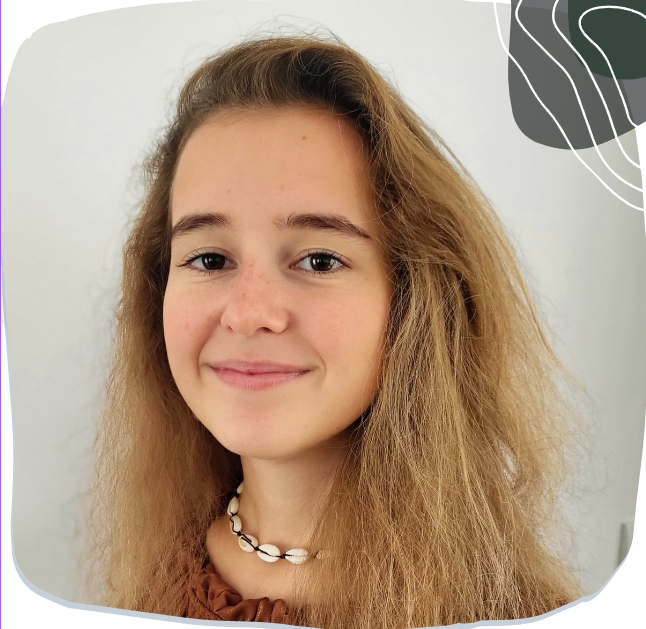
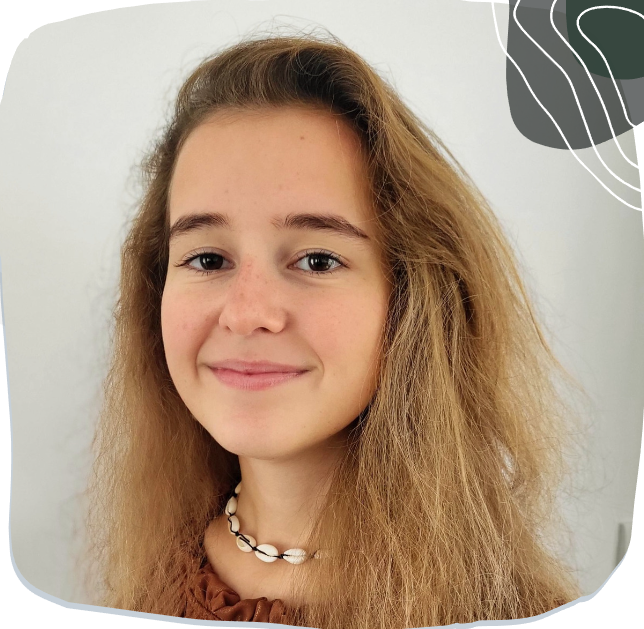
CV FR réalisé

diff --git a/FR_VERS/APropos/CV/CV.css b/FR_VERS/APropos/CV/CV.css
@@ -1,18 +1,29 @@
 @import url('https://fonts.googleapis.com/css2?family=Oleo+Script:wght@700&display=swap');
+@import url('https://fonts.googleapis.com/css2?family=Noto+Sans:wght@300;400&display=swap');
 
 
-
+html{
+    width: 1415px;
+    height: 2000px;
+}
 
 body {
     margin:0;
     padding:0;
     background: url(arriere_plan.png) no-repeat; 
+    width: 1415px;
+    height: 2000px;
+
 }
 
 .bandeau {
     width: 1415px;
     height: 150px;
 }
+
+/*=================================================================
+  Nom section
+==================================================================*/
 
 .Nom {
     width: 1415px;
@@ -22,15 +33,237 @@ body {
 
 p.center_nom {
     top : 100px;
-    left: 130px;
+    left: 100px;
     margin: 20px 50px 10px;
     position: relative;
-    font-size: 100px;
+    font-size: 120px;
 }
 
-.Photo {
-    width: 415px;
-    height: 950px;
-    float: center;
+img {
+    width: 620px;
+    height: 620px;
+    top : 165px;
+    left: 732px;
+    position: absolute;
 }
+
+/*=================================================================
+  Scolarite section
+==================================================================*/
+
+.Scolarite {
+    top: 700px;
+    width: 700px;
+    height: 500px;
+    position: absolute;
+}
+
+#Scolarite_Titre {
+    left: 32px;
+    font-family: 'Oleo Script', cursive;
+    font-size: 50px;
+    position: relative;
+}
+
+.Scolarite_Nom {
+    font-family: 'Noto Sans', sans-serif;
+    left: 32px;
+    position: relative;
+}
+
+.Scolarite_Texte {
+    font-family: 'Noto Sans', sans-serif;
+    font-size: 20px;
+    left: 50px;
+    position: relative;
+}
+
+/*=================================================================
+  Experience section
+==================================================================*/
+
+.Experience {
+    top: 1300px;
+    width: 700px;
+    height: 500px;
+    position: absolute;
+}
+
+#Experience_Titre {
+    left: 32px;
+    font-family: 'Oleo Script', cursive;
+    font-size: 50px;
+    position: relative;
+}
+
+.Experience_Nom {
+    font-family: 'Noto Sans', sans-serif;
+    left: 32px;
+    position: relative;
+}
+
+#Experience_Lieu {
+    font-family: 'Noto Sans', sans-serif;
+    left: 40px;
+    position: relative;
+}
+
+.Experience_Texte {
+    font-family: 'Noto Sans', sans-serif;
+    font-size: 20px;
+    left: 50px;
+    position: relative;
+}
+
+/*=================================================================
+  Interets section
+==================================================================*/
+
+.Interets {
+    top: 830px;
+    width: 700px;
+    height: 280px;
+    left: 750px;
+    position: absolute;
+}
+
+#Interets_Titre {
+    left: 32px;
+    font-family: 'Oleo Script', cursive;
+    font-size: 50px;
+    position: relative;
+}
+
+#Interets_Texte {
+    font-family: 'Noto Sans', sans-serif;
+    font-size: 20px;
+    left: 50px;
+    position: relative;
+}
+
+/*=================================================================
+  Competences section
+==================================================================*/
+
+.Competences {
+    top: 1080px;
+    width: 700px;
+    height: 300px;
+    left: 750px;
+    position: absolute;
+}
+
+#Competences_Titre {
+    left: 32px;
+    font-family: 'Oleo Script', cursive;
+    font-size: 50px;
+    position: relative;
+}
+
+#Competences_Texte {
+    font-family: 'Noto Sans', sans-serif;
+    font-size: 20px;
+    left: 50px;
+    position: relative;
+}
+
+/*=================================================================
+  Langues section
+==================================================================*/
+
+.Langues {
+    top: 1355px;
+    width: 700px;
+    height: 300px;
+    left: 750px;
+    position: absolute;
+}
+
+#Langues_Titre {
+    left: 32px;
+    font-family: 'Oleo Script', cursive;
+    font-size: 50px;
+    position: relative;
+}
+
+#Langues_Texte {
+    font-family: 'Noto Sans', sans-serif;
+    font-size: 20px;
+    left: 50px;
+    position: relative;
+}
+
+/*=================================================================
+  Contact section
+==================================================================*/
+
+.Contact {
+    top: 1700px;
+    left: 80px;
+    width: 1000px;
+    height: 300px;
+    position: absolute;
+}
+
+#Contact_Titre {
+    top: 20px;
+    left: 35px;
+    font-family: 'Oleo Script', cursive;
+    font-size: 50px;
+    position: relative;
+}
+
+#Contact_Mail {
+    font-family: 'Noto Sans', sans-serif;
+    font-size: 20px;
+    top: 100px;
+    left: 400px;
+    position: absolute;
+}
+
+#mail {
+    height: 50px;
+    width: 55px;
+    top: 105px;
+    left: 330px;
+    position: absolute;
+}
+
+#Contact_Tel {
+    font-family: 'Noto Sans', sans-serif;
+    font-size: 20px;
+    top: 200px;
+    left: 280px;
+    position: absolute;
+}
+
+#tel {
+    height: 50px;
+    width: 55px;
+    top: 205px;
+    left: 210px;
+    position: absolute;
+}
+
+#Contact_Localisation {
+    font-family: 'Noto Sans', sans-serif;
+    font-size: 20px;
+    top: 195px;
+    left: 730px;
+    position: absolute;
+}
+
+#localisation {
+    height: 45px;
+    width: 40px;
+    top: 200px;
+    left: 675px;
+    position: absolute;
+}
+
+
+
+
+
+
 

diff --git a/FR_VERS/APropos/CV/CV_FR.html b/FR_VERS/APropos/CV/CV_FR.html
@@ -8,9 +8,95 @@
     <link rel='stylesheet' type='text/css' media='screen' href='CV.css'>
 </head>
 <body>
+
     <div class="bandeau"> </div>
+
+    
+    <!-- Nom Section --> 
+
     <div class="Nom"><p class="center_nom">Éloïse</p><p class="center_nom">Lecronier</p></div>
-    <div class="Photo"><img src = "photo_cv.png"></div>
+    <img src = "photo_cv.png">
+
+
+    <!-- Scolarite Section --> 
+
+    <div class="Scolarite">
+        <h1 id="Scolarite_Titre">Scolarité</h1>
+        <h2 class="Scolarite_Nom">Actuel - BTS SNIR</h2>
+        <p class="Scolarite_Texte">• Première année au lycée la Providence <br/>d'Amiens.</p>
+        <h2 class="Scolarite_Nom">2022 - Baccalauréat Général</h2>
+        <p class="Scolarite_Texte">• Obtenu au lycée La Providence <br/>
+            d'Amiens mention Assez Bien avec les spécialités mathématiques et <br/>
+            numériques et sciences informatiques.
+        </p>
+        <h2 class="Scolarite_Nom">2019 - Brevet des Collèges</h2>
+        <p class="Scolarite_Texte">• Obtenu au lycée La Providence <br/>d'Amiens.</p>
+    </div>
+
+
+    <!-- Experience Section --> 
+
+    <div class="Experience">
+        <h1 id="Experience_Titre">Expérience</h1>
+        <h2 class="Experience_Nom">2019 - Librairie Martelle</h2>
+        <h3 id="Experience_Lieu">Amiens, France</h3>
+        <p class="Scolarite_Texte">• Stage d'observation où j'ai eu la <br/>
+            possibilité de suivre le quotidien d'une libraire et le fonctionnement <br/>
+            d'une entreprise.
+        </p>
+    </div>
+
+
+    <!-- Interets Section --> 
+
+    <div class="Interets">
+        <h1 id="Interets_Titre">Intérêts</h1>
+        <p id="Interets_Texte">Pratique d'un sport de self-defense. J'aime voyager et <br/>
+            lire.
+        </p>
+    </div>
+
+
+    <!-- Competences Section --> 
+
+    <div class="Competences">
+        <h1 id="Competences_Titre">Compétences</h1>
+        <p id="Competences_Texte">Maîtrise des logiciels de la gamme Microsoft : Word, <br/>
+            Excel et Powerpoint. Certifiée par la plateforme Pix.
+        </p>
+    </div>
+
+
+    <!-- Langues Section --> 
+
+    <div class="Langues">
+        <h1 id="Langues_Titre">Langues</h1>
+        <p id="Langues_Texte">• Français : langue maternelle <br/>
+            • Anglais : certifiée niveau B2 par le Cambridge English <br/>
+            Certificate. <br/>
+            • Espagnol : niveau A2 (compréhension basique)
+        </p>
+    </div>
+
+    
+    <!-- Contact Section --> 
+
+    <div class="Contact">
+        <h1 id="Contact_Titre">Contact</h1>
+
+        
+        <h2 id="Contact_Mail">eloise.lecronier@gmail.com</h2>
+        <img id="mail"src="mail.png">
+
+
+        <h2 id="Contact_Tel">+33 6 52 09 52 04</h2>
+        <img id="tel" src="phone.png">
+        
+        <h2 id="Contact_Localisation">Amiens, FRANCE</h2>
+        <img id="localisation" src="location.png">
+        
+    </div>
+
 
 </body>
 </html>
